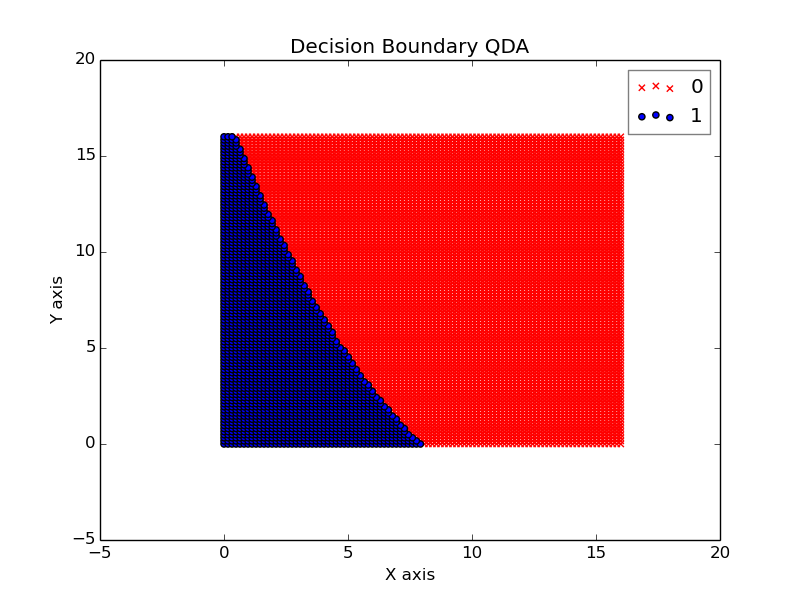
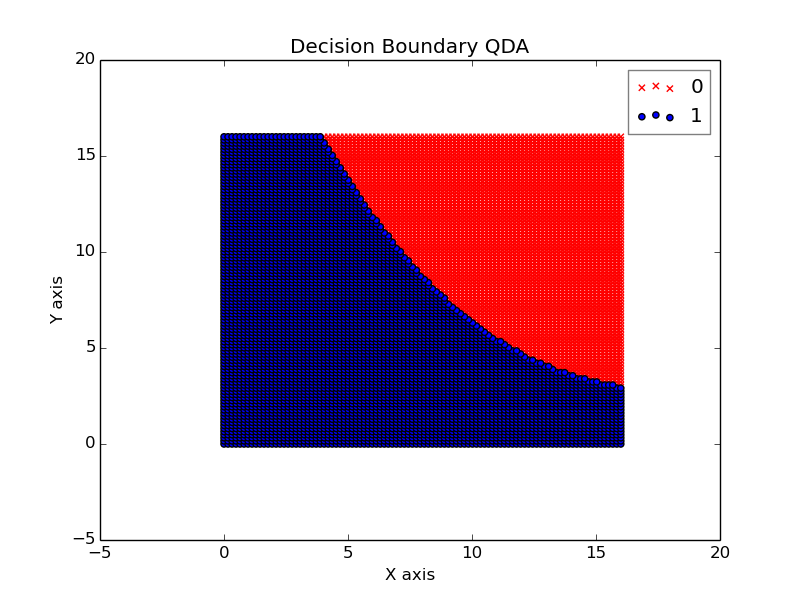
ex02 done

Changed region(s): [[0.2812, 0.21, 0.7812, 0.75]]

diff --git a/MachineLeraning/Exercises/ex02/ex02.py b/MachineLeraning/Exercises/ex02/ex02.py
@@ -216,7 +216,7 @@ def perform_qda(mu0, mu1, covmat0, covmat1, p0, p1, testx):
                          testx_centered0[i].T)/2. - b_0
         
         # k =1
-        b_1 = np.log(np.linalg.det(2*np.pi*covmat1))/2. - np.log(p1)
+        b_1 = -np.log(np.linalg.det(2*np.pi*covmat1))/2. - np.log(p1)
         covmat1_inv = np.linalg.inv(covmat1)
 
         testx_centered1 = testx - mu1
@@ -299,7 +299,7 @@ def perform_lda(mu0, mu1, covmat0, covmat1, p0, p1, testx):
         y0 = np.dot( testx[i], w_0) + b_0
         
         # k =1
-        b_1 = np.log(np.linalg.det(2*np.pi*covmat1))/2. - np.log(p1)
+        b_1 = - np.log(np.linalg.det(2*np.pi*covmat1))/2. - np.log(p1)
 
         covmat1_inv = np.linalg.inv(covmat1)        
         
@@ -437,7 +437,7 @@ def main():
     # Compute the correct classification rate
     ccr_train = correctClassRate(qda_predict_train, y_train01, [0,1],\
                                                     print_confMatrix = True)
-    print 'Correct Classification rate on the training test:{}'.format(ccr_train)
+    print 'Correct Classification rate on the training set:{}'.format(ccr_train)
 
     # Visualize  the results of prediction    
     plotPredictionResults(x_train, y_train01, qda_predict_train,\
@@ -470,7 +470,7 @@ def main():
     # Compute the correct classification rate
     ccr_test = correctClassRate(qda_predict_test, y_test01, [0,1],\
                                                     print_confMatrix = True)                                                
-    print 'Correct Classification rate on the training test:{}'.format(ccr_test)
+    print 'Correct Classification rate on the test set:{}'.format(ccr_test)
 
     # Visualize  the results of prediction
     plotPredictionResults(x_test, y_test01, qda_predict_test, \
@@ -494,7 +494,7 @@ def main():
     # Compute the correct classification rate
     ccr_train = correctClassRate(lda_predict_train, y_train01, [0,1],\
                                                     print_confMatrix = True)
-    print 'Correct Classification rate on the training test:{}'.format(ccr_train)
+    print 'Correct Classification rate on the training set:{}'.format(ccr_train)
 
     # Visualize  the results of prediction    
     plotPredictionResults(x_train, y_train01, lda_predict_train,\
@@ -528,7 +528,7 @@ def main():
     # Compute the correct classification rate
     ccr_test = correctClassRate(lda_predict_test, y_test01, [0,1],\
                                                     print_confMatrix = True)                                                
-    print 'Correct Classification rate on the training test:{}'.format(ccr_test)
+    print 'Correct Classification rate on the test set:{}'.format(ccr_test)
 
     # Visualize  the results of prediction
     plotPredictionResults(x_test, y_test01, lda_predict_test, \
